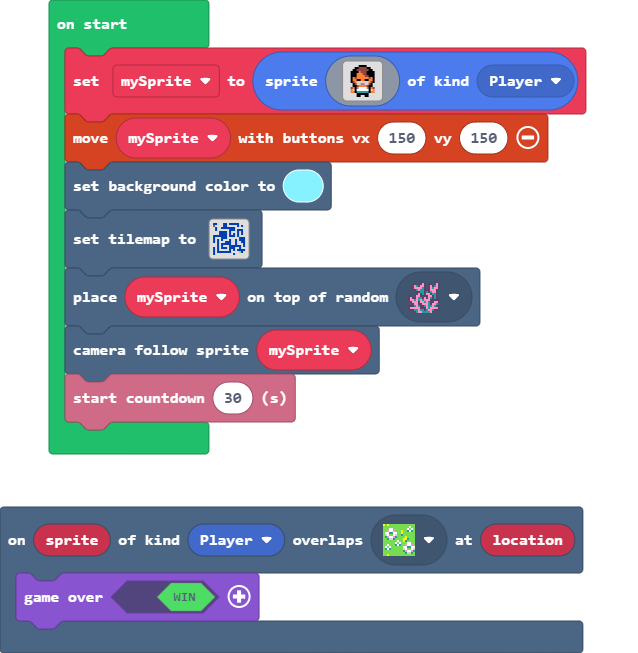
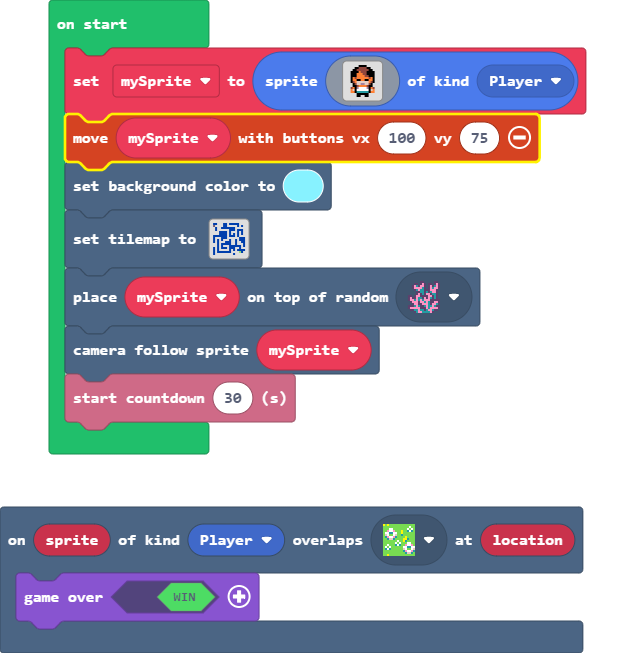
Update main.blocks, main.ts

Changed region(s): [[0.0893, 0.1531, 0.8636, 0.2757]]

diff --git a/main.ts b/main.ts
@@ -19,7 +19,7 @@ let mySprite = sprites.create(img`
     . . . f f f f f f . . . 
     . . . f f . . f f . . . 
     `, SpriteKind.Player)
-controller.moveSprite(mySprite, 150, 150)
+controller.moveSprite(mySprite, 100, 75)
 scene.setBackgroundColor(9)
 tiles.setTilemap(tiles.createTilemap(hex`1000100001010000000101000101010101000000020000000001010000000000010001000001000001010101010101000000000000010000000000000101010001010100000000010101010001000000010001000000000101010100010001000100010001010101010101000101010001000000010000000101010000000000000101010100010001000000010000010001010101000100000001010100000100000101000001000101010101000001000000010000010001000000010101010101000101000100010101000101010000010000010001000000000001000100010101010100010101010101010000000003010001000000000000000000010000000000`, img`
     2 2 . . . 2 2 . 2 2 2 2 2 . . . 
